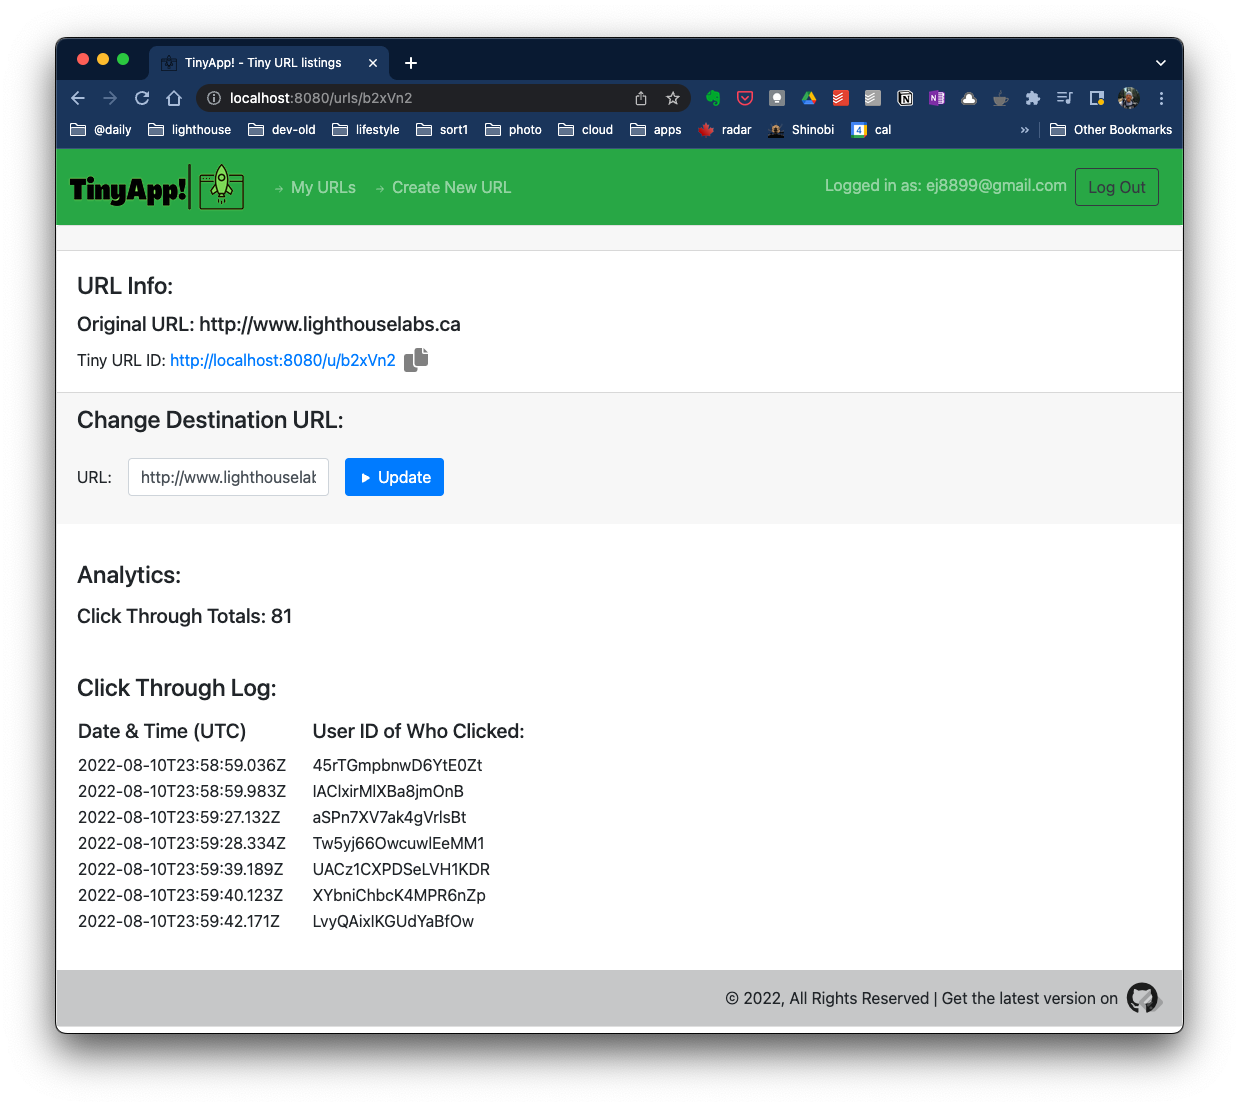
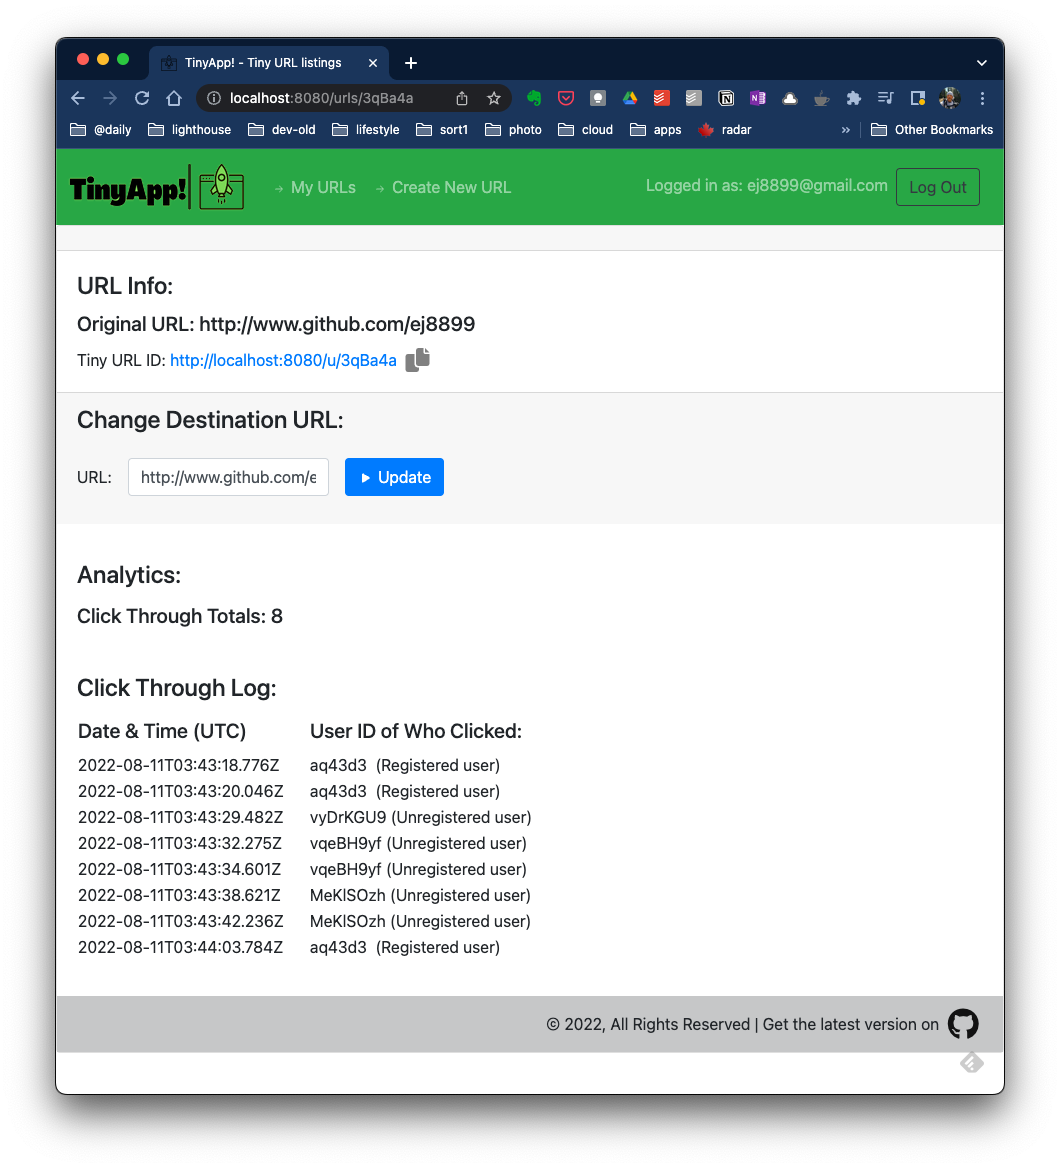
update to show unregistered user tracking

Changed region(s): [[0.0311, 0.0307, 0.9651, 0.9521]]

diff --git a/express_server.js b/express_server.js
@@ -365,17 +365,24 @@ app.get("/urls/:id", (req, res) => {
   // need to parse our clickDatabase and rebuild for this tinyURL id ONLY
   let tempClicksDatabase = {};
   let templateClicks = {};
-  for (let item in clickDatabase) {
-    if (clickDatabase[item].lid === req.params.id) {
-      templateClicks = {
+  let theusertype;
+
+  for (let item in clickDatabase) {                       // loop thru click database
+    if (clickDatabase[item].lid === req.params.id) {      // filter matching tiny url items
+      if (clickDatabase[item].uid.length === 6) {          // is the user registered or not
+        theusertype = '\u0020\u0020(Registered user)';
+      } else {
+        theusertype = '(Unregistered user)';
+      }
+      templateClicks = {                                  // build temp database of clicks for this tiny url id
         uid: clickDatabase[item].uid,
         dateStamp: clickDatabase[item].dateStamp,
+        userType: theusertype,
       };
       tempClicksDatabase[makeID(8)] = templateClicks;
     }
   }
   const templateVars = { id: req.params.id, longURL: urlDatabase[req.params.id], user: uidData, totalCount, logs:tempClicksDatabase};
-  // <%= urls[id] %>
   res.render("urls_show.ejs", templateVars);
 });
 
@@ -408,12 +415,22 @@ app.post("/urls", (req, res) => {
 // REDIRECT to the longURL
 //
 app.get("/u/:id", (req, res) => {
+  cookieName(req);
+
   let id = req.params.id;
   if (id !== 'undefined') {
     const longURL = urlDatabase[id];
     consolelog(`${conColorOrange}Redirected to ${conColorGreen}${longURL}${conColorReset}`);
     tinyTrack(trackingDatabase,id,'inc'); // increase total click count on this tiny URL
-    clickTrack(clickDatabase, id, makeID(18), 'add');  // !TODO - change makeID(18) to ACTUAL user id if exists
+
+    let tempuid;
+    if (uid === "" || uid === "nobody") {
+      tempuid = makeID(8);
+      cookieName(req,"set",tempuid); // set a cookie for unregistered users too!
+    } else {
+      tempuid = uid;
+    }
+    clickTrack(clickDatabase, id, tempuid, 'add');  // !TODO - change makeID(18) to ACTUAL user id if exists
     res.redirect(longURL);
   } else {
     consolelog(`${conColorYellow}oops -  ${conColorRed}undefined${conColorYellow} isn't a valid destination${conColorReset}\n`);
